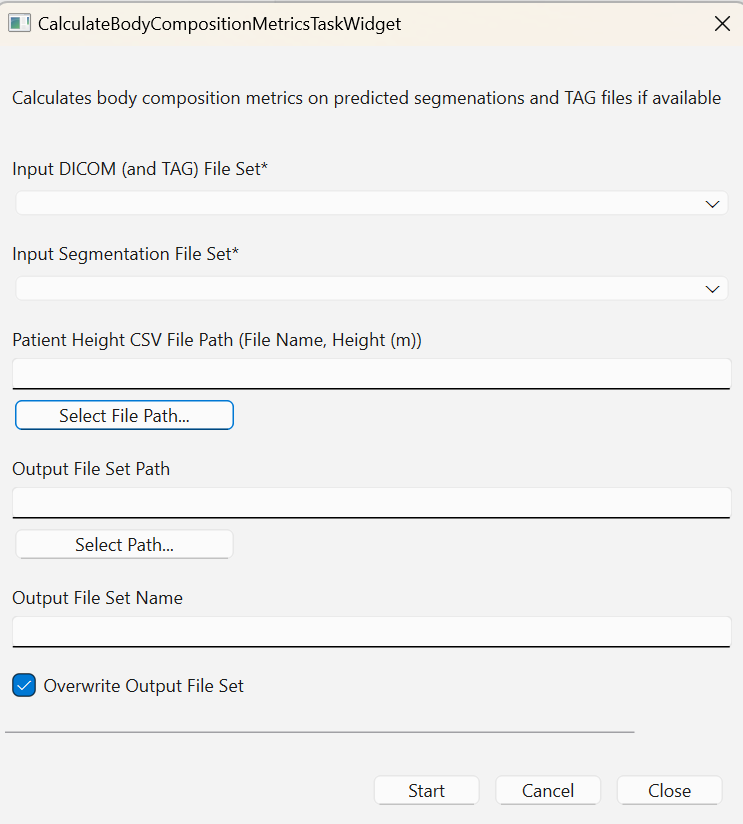
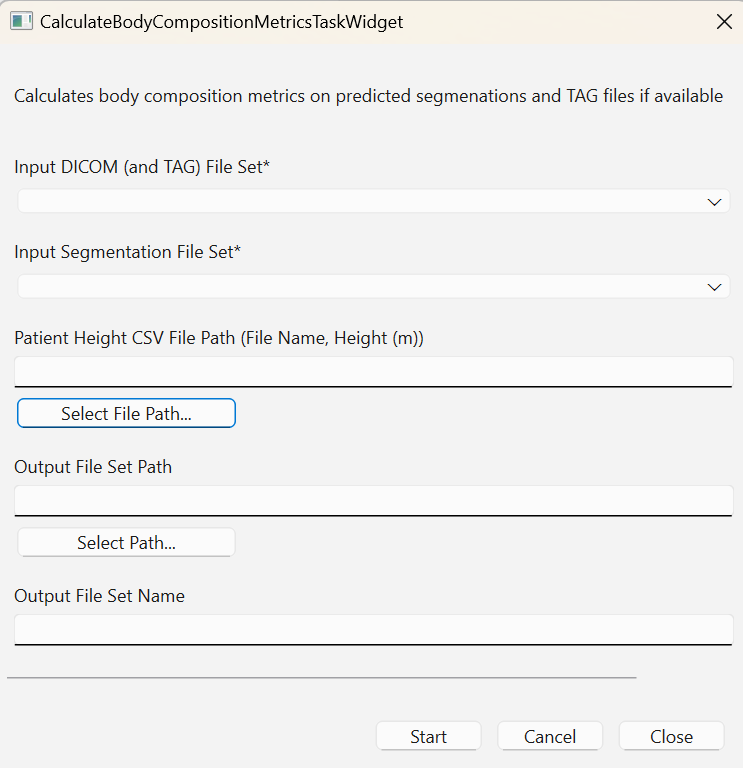
Saving work

diff --git a/mosamaticdesktop/tasks/calculatebodycompositionmetricstask/calculatebodycompositionmetricstask.py b/mosamaticdesktop/tasks/calculatebodycompositionmetricstask/calculatebodycompositionmetricstask.py
@@ -50,11 +50,6 @@ class CalculateBodyCompositionMetricsTaskTask(Task):
             labelText='Output File Set Name',
             optional=True,
         )
-        self.addBooleanParameter(
-            name='overwriteOutputFileSet',
-            labelText='Overwrite Output File Set',
-            defaultValue=True,
-        )
 
     def findSegmentationFileForDicomFile(self, dicomFile: File, segmentationFiles: List[File]) -> File:
         for segmentationFile in segmentationFiles:
@@ -130,11 +125,7 @@ class CalculateBodyCompositionMetricsTaskTask(Task):
             outputFileSetName = self.generateTimestampForFileSetName(name=inputFileSetName)
         outputFileSetPath = self.parameter('outputFileSetPath').value()
         outputFileSetPath = os.path.join(outputFileSetPath, outputFileSetName)
-        overwriteOutputFileSet = self.parameter('overwriteOutputFileSet').value()
-        if overwriteOutputFileSet:
-            if os.path.isdir(outputFileSetPath):
-                shutil.rmtree(outputFileSetPath)
-        os.makedirs(outputFileSetPath, exist_ok=True)
+        os.makedirs(outputFileSetPath, exist_ok=False)
 
         files = inputFileSet.files()
         nrSteps = len(files)
